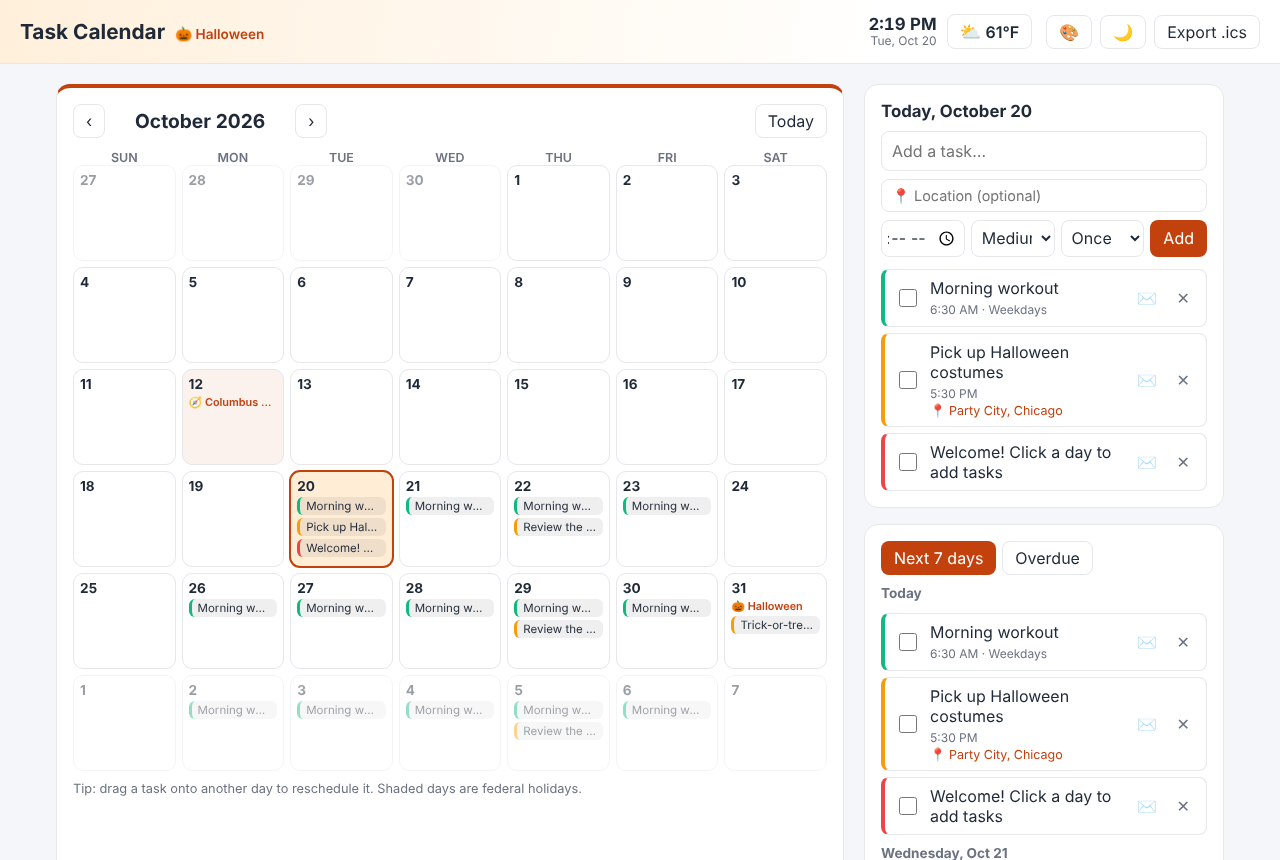
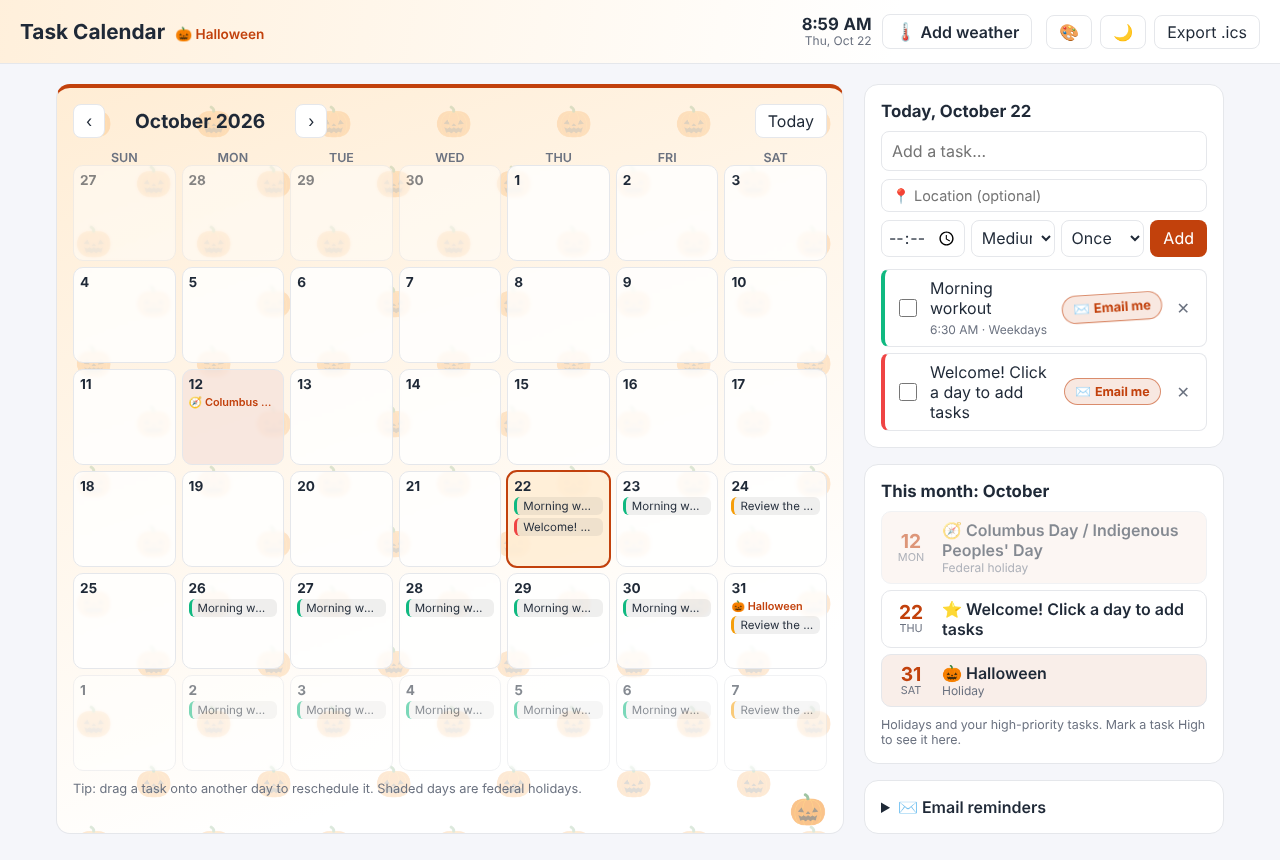
Bigger Email me button that stands out next to every task; README and screenshots for the themed calendar and This month panel

diff --git a/style.css b/style.css
@@ -112,8 +112,15 @@ body, .top, .day, .primary { transition: background-color .3s ease, color .3s ea
 }
 
 /* Email reminders */
-.mail { text-decoration: none; font-size: 1rem; padding: 2px 4px; border-radius: 6px; opacity: .65; }
-.mail:hover, .mail:focus-visible { opacity: 1; background: rgba(127,127,127,.15); }
+.mail { display: inline-flex; align-items: center; gap: 4px; white-space: nowrap; text-decoration: none; font-size: .78rem; font-weight: 700;
+        padding: 5px 10px; border-radius: 999px; color: var(--accent); background: color-mix(in srgb, var(--accent) 12%, transparent);
+        border: 1.5px solid color-mix(in srgb, var(--accent) 55%, transparent); transition: background-color .15s ease, color .15s ease, transform .15s ease; }
+.mail:hover, .mail:focus-visible { background: var(--accent); color: #fff; transform: translateY(-1px); outline: none; }
+:root.seasonal.dark .mail:hover, :root.seasonal.dark .mail:focus-visible { color: #0f172a; }
+.task.completed .mail { opacity: .45; }
+/* The first email button on the page gives a gentle nudge so people notice it */
+.tasks li:first-child .mail { animation: nudge 2.4s ease 1s 2; }
+@keyframes nudge { 0%, 100% { transform: none; } 10% { transform: rotate(-6deg) scale(1.08); } 20% { transform: rotate(6deg) scale(1.08); } 30% { transform: none; } }
 .mail-help summary { cursor: pointer; font-weight: 600; }
 .mail-help p { font-size: .85rem; line-height: 1.5; margin: 10px 0 0; }
 .mail-help .muted { color: var(--muted); }

diff --git a/index.html b/index.html
@@ -82,7 +82,7 @@
 
       <details class="panel mail-help">
         <summary>✉ Email reminders</summary>
-        <p>Click ✉ next to any task to open it in <strong>Google Calendar</strong>, already filled in. Save it there and Google emails you before it's due, even when this page is closed.</p>
+        <p>Click <strong>✉ Email me</strong> next to any task to open it in <strong>Google Calendar</strong>, already filled in. Save it there and Google emails you before it's due, even when this page is closed.</p>
         <p><strong>One-time setup</strong> so every task you add gets an email: in Google Calendar open <em>Settings → Settings for my calendars →</em> your calendar <em>→ Event notifications → Add notification → Email</em> (for example 30 minutes before). Tasks with no time use <em>All-day event notifications</em>.</p>
         <p class="muted">You can also switch a single event's notification to Email on the Google Calendar page before you save it.</p>
       </details>

diff --git a/src/app.js b/src/app.js
@@ -77,7 +77,7 @@ const taskItem = (t, key, showDate = false) => `
       <span class="t-meta">${[showDate && fmtDay(key, { weekday: 'short', month: 'short', day: 'numeric' }), fmtTime(t.time), repeatLabel[t.repeat]].filter(Boolean).join(' · ')}</span>
       ${t.location ? `<a class="t-loc" href="${esc(mapLink(t.location))}" target="_blank" rel="noopener" title="Open in Google Maps">📍 ${esc(t.location)}</a>` : ''}
     </span>
-    <a class="mail" href="${esc(googleCalendarUrl(t, key))}" target="_blank" rel="noopener" title="Email me a reminder (adds it to Google Calendar)" aria-label="Email me a reminder for ${esc(t.title)}">✉</a>
+    <a class="mail" href="${esc(googleCalendarUrl(t, key))}" target="_blank" rel="noopener" title="Email me a reminder (adds it to Google Calendar)" aria-label="Email me a reminder for ${esc(t.title)}"><span aria-hidden="true">✉</span> Email me</a>
     <button class="del" data-del="${t.id}" aria-label="Delete ${esc(t.title)}">✕</button>
   </li>`;
 

diff --git a/README.md b/README.md
@@ -16,13 +16,13 @@ A to-do list and a calendar in one. Plan tasks on a month view, check them off, 
 - **Day panel**: click any day to see its tasks and add new ones with an optional time, priority and repeat rule
 - **Repeating tasks**: daily, weekdays, weekly or monthly. Monthly tasks on the 31st land on the last day of shorter months. Checking off a repeating task completes only that day.
 - **Drag and drop** a one-time task onto another day to reschedule it
-- **Next 7 days** and **Overdue** views, with an overdue badge
+- **This month** panel: the month's holidays and your high-priority tasks in date order (a repeating task shows once, with how many times it comes up), plus a warning for anything overdue. Click one to jump to that day
 - **Export .ics** to import your tasks (including repeat rules and locations) into Google Calendar, Apple Calendar or Outlook
 - **US holidays**: all 11 federal holidays, computed for any year (Thanksgiving is the 4th Thursday of November, Memorial Day the last Monday of May…), with the observed Friday or Monday when one falls on a weekend. Also Easter, Mother's and Father's Day, Valentine's, St. Patrick's, Halloween, Christmas Eve and more. Federal holidays are shaded.
-- **A theme for every month** based on its big holiday: New Year's in January, Valentine's in February, St. Patrick's in March, Easter in April, Mother's Day in May, Juneteenth in June, the Fourth of July, summer break in August, Labor Day in September, Halloween in October, Thanksgiving in November and Christmas in December. It follows the month you're looking at, works in dark mode, and can be turned off with 🎨. A test checks that every theme's colors pass the WCAG AA contrast ratio.
+- **A theme for every month** based on its big holiday: New Year's in January, Valentine's in February, St. Patrick's in March, Easter in April, Mother's Day in May, Juneteenth in June, the Fourth of July, summer break in August, Labor Day in September, Halloween in October, Thanksgiving in November and Christmas in December. The theme fills the calendar itself: a wash of the month's color with its emoji repeated like wallpaper behind the days. It follows the month you're looking at, works in dark mode, and can be turned off with 🎨. A test checks that every theme's colors pass the WCAG AA contrast ratio.
 - **Time and weather** in the top corner: a live clock and the current temperature and conditions for your location (with permission) or any city you type ("Springfield, IL" picks the right Springfield), in °F or °C. Weather comes from [Open-Meteo](https://open-meteo.com/) (free, no API key) and refreshes every 15 minutes.
 - **Task locations**: add a place to any task; it shows under the task with a 📍 link that opens Google Maps
-- **Email reminders**: ✉ next to a task opens it in Google Calendar, already filled in (time, location, repeat rule). Save it and Google emails you before it's due, even with this page closed. The site is static, with no server to send email, so Google Calendar does the sending. One-time setup: in Google Calendar, *Settings → Settings for my calendars →* your calendar *→ Event notifications → Add notification → Email*.
+- **Email reminders**: the **✉ Email me** button next to a task opens it in Google Calendar, already filled in (time, location, repeat rule). Save it and Google emails you before it's due, even with this page closed. The site is static, with no server to send email, so Google Calendar does the sending. One-time setup: in Google Calendar, *Settings → Settings for my calendars →* your calendar *→ Event notifications → Add notification → Email*.
 - Dark mode (follows your system setting, with a toggle), works on phones, and saves automatically in your browser
 
 ## How it works
@@ -32,6 +32,7 @@ A to-do list and a calendar in one. Plan tasks on a month view, check them off, 
 | [`src/tasks.js`](src/tasks.js) | Pure date and task logic: month grid, repeat rules, sorting, overdue/upcoming, completion, iCalendar export |
 | [`src/holidays.js`](src/holidays.js) | US holidays for any year: nth-weekday rules, the Easter algorithm and weekend observed days |
 | [`src/themes.js`](src/themes.js) | The 12 monthly holiday themes and a contrast checker |
+| [`src/month.js`](src/month.js) | The This month panel: holidays and high-priority tasks for a month |
 | [`src/weather.js`](src/weather.js) | Weather codes to emoji, Open-Meteo URLs, picking the right city from search results |
 | [`src/app.js`](src/app.js) | Rendering, adding and completing tasks, drag and drop, views, themes, clock and weather, and saving |
 
@@ -41,7 +42,7 @@ Dates are stored as `YYYY-MM-DD` strings in local time, which avoids the classic
 
 ```bash
 python3 -m http.server 8000      # then open http://localhost:8000
-npm test                         # 21 tests: dates and repeats, holidays, themes, weather, Google Calendar links
+npm test                         # 24 tests: dates and repeats, holidays, themes, weather, Google Calendar links, This month
 ```
 
 Built with help from AI coding tools for planning, code review and tests.
